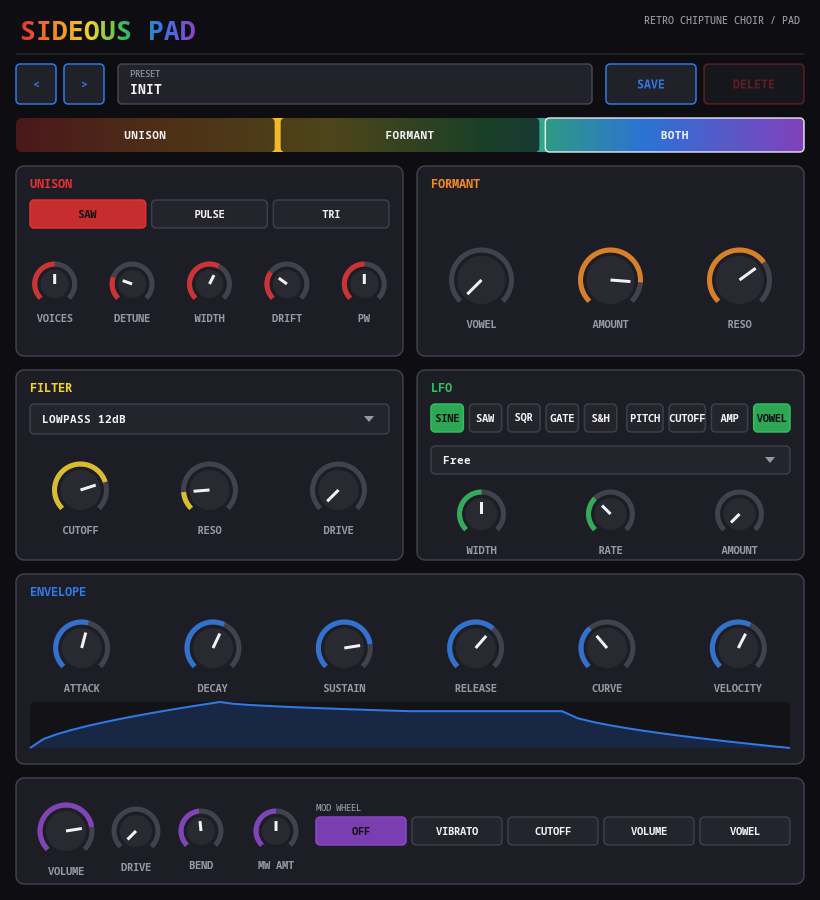
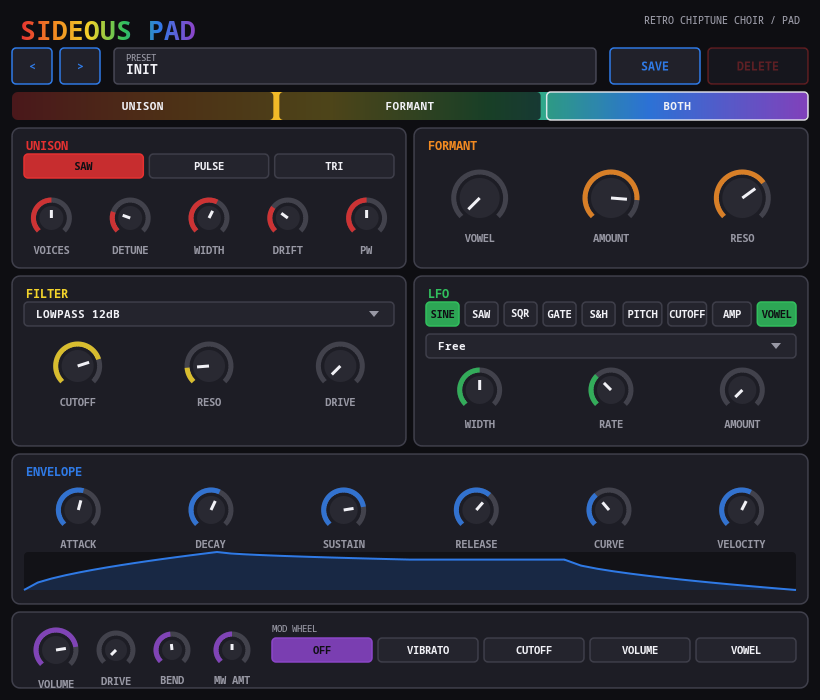
Compact UI and fix preset save bug
- Tightened the existing panel grid (knob radii, gaps, row heights) to
  reduce the window height (820x900 -> 820x700) without reshuffling the
  layout; removed a redundant header divider line.
- Fixed a preset-save bug: clicking SAVE cleared the in-progress rename
  before presetSave() could read it, so the typed name was silently
  discarded in favor of the previous preset's name.

diff --git a/plugins/SideousPad/ui/UIPainter.hpp b/plugins/SideousPad/ui/UIPainter.hpp
@@ -183,19 +183,19 @@ inline Layout buildLayout(float width, float height)
     L.width = width;
     L.height = height;
 
-    const float margin = 16.0f;
-    const float gap = 14.0f;
+    const float margin = 12.0f;
+    const float gap = 8.0f;
     const float colW = (width - margin * 2.0f - gap) / 2.0f;
     const float colBx = margin + colW + gap;
     const float fullW = width - margin * 2.0f;
 
     // preset bar: full width, everything else starts below it
-    const float presetBarY = 64.0f, presetBarH = 40.0f;
+    const float presetBarY = 48.0f, presetBarH = 36.0f;
 
-    const float modeY = presetBarY + presetBarH + gap, modeH = 34.0f;
-    const float row1Y = modeY + modeH + gap, row1H = 190.0f;
-    const float row2Y = row1Y + row1H + gap, row2H = 190.0f;
-    const float row3Y = row2Y + row2H + gap, row3H = 190.0f;
+    const float modeY = presetBarY + presetBarH + gap, modeH = 28.0f;
+    const float row1Y = modeY + modeH + gap, row1H = 140.0f;
+    const float row2Y = row1Y + row1H + gap, row2H = 170.0f;
+    const float row3Y = row2Y + row2H + gap, row3H = 150.0f;
     const float barY  = row3Y + row3H + gap, barH = height - barY - margin;
 
     // --- preset bar --- (left-to-right: prev/next, name field filling the
@@ -246,11 +246,11 @@ inline Layout buildLayout(float width, float height)
         Selector wave;
         wave.param = kParamUnisonWaveform;
         wave.accent = p.accent;
-        wave.x = p.x + 14.0f; wave.y = p.y + 34.0f; wave.w = p.w - 28.0f; wave.h = 28.0f;
+        wave.x = p.x + 12.0f; wave.y = p.y + 26.0f; wave.w = p.w - 24.0f; wave.h = 24.0f;
         wave.options = { { 0.0f, "SAW" }, { 1.0f, "PULSE" }, { 2.0f, "TRI" } };
         L.selectors.push_back(wave);
 
-        addKnobRow(L.knobs, p.x, p.w, wave.y + wave.h + 56.0f, 20.0f, p.accent,
+        addKnobRow(L.knobs, p.x, p.w, wave.y + wave.h + 40.0f, 18.0f, p.accent,
                    {
                        { kParamUnisonVoices,      "VOICES" },
                        { kParamUnisonDetune,      "DETUNE" },
@@ -263,7 +263,7 @@ inline Layout buildLayout(float width, float height)
     // --- Formant (Vowel) ---
     {
         const PanelBox& p = L.panels[1];
-        addKnobRow(L.knobs, p.x, p.w, p.y + 34.0f + 80.0f, 30.0f, p.accent,
+        addKnobRow(L.knobs, p.x, p.w, p.y + 26.0f + 44.0f, 26.0f, p.accent,
                    {
                        { kParamVowel,             "VOWEL" },
                        { kParamFormantAmount,     "AMOUNT" },
@@ -277,7 +277,7 @@ inline Layout buildLayout(float width, float height)
         Dropdown mode;
         mode.param = kParamFilterMode;
         mode.accent = p.accent;
-        mode.x = p.x + 14.0f; mode.y = p.y + 34.0f; mode.w = p.w - 28.0f; mode.h = 30.0f;
+        mode.x = p.x + 12.0f; mode.y = p.y + 26.0f; mode.w = p.w - 24.0f; mode.h = 24.0f;
         mode.options = {
             { 0.0f, "LOWPASS 12dB" },
             { 1.0f, "LOWPASS 24dB" },
@@ -288,7 +288,7 @@ inline Layout buildLayout(float width, float height)
         };
         L.dropdowns.push_back(mode);
 
-        addKnobRow(L.knobs, p.x, p.w, p.y + 34.0f + 30.0f + 56.0f, 26.0f, p.accent,
+        addKnobRow(L.knobs, p.x, p.w, p.y + 26.0f + 24.0f + 40.0f, 22.0f, p.accent,
                    {
                        { kParamFilterCutoff,    "CUTOFF" },
                        { kParamFilterResonance, "RESO" },
@@ -303,25 +303,25 @@ inline Layout buildLayout(float width, float height)
         Selector wave;
         wave.param = kParamLfoWaveform;
         wave.accent = p.accent;
-        wave.x = p.x + 14.0f; wave.y = p.y + 34.0f; wave.w = p.w * 0.48f; wave.h = 28.0f;
+        wave.x = p.x + 12.0f; wave.y = p.y + 26.0f; wave.w = p.w * 0.48f; wave.h = 24.0f;
         wave.options = { { 0.0f, "SINE" }, { 1.0f, "SAW" }, { 2.0f, "SQR" }, { 3.0f, "GATE" }, { 4.0f, "S&H" } };
         L.selectors.push_back(wave);
 
         Selector dest;
         dest.param = kParamLfoDestination;
         dest.accent = p.accent;
-        dest.x = wave.x + wave.w + 10.0f; dest.y = wave.y; dest.w = (p.x + p.w - 14.0f) - dest.x; dest.h = 28.0f;
+        dest.x = wave.x + wave.w + 8.0f; dest.y = wave.y; dest.w = (p.x + p.w - 12.0f) - dest.x; dest.h = 24.0f;
         dest.options = { { 0.0f, "PITCH" }, { 1.0f, "CUTOFF" }, { 2.0f, "AMP" }, { 3.0f, "VOWEL" } };
         L.selectors.push_back(dest);
 
         Dropdown sync;
         sync.param = kParamLfoSync;
         sync.accent = p.accent;
-        sync.x = p.x + 14.0f; sync.y = wave.y + wave.h + 14.0f; sync.w = p.w - 28.0f; sync.h = 28.0f;
+        sync.x = p.x + 12.0f; sync.y = wave.y + wave.h + 8.0f; sync.w = p.w - 24.0f; sync.h = 24.0f;
         sync.options = syncOptions();
         L.dropdowns.push_back(sync);
 
-        addKnobRow(L.knobs, p.x, p.w, sync.y + sync.h + 40.0f, 22.0f, p.accent,
+        addKnobRow(L.knobs, p.x, p.w, sync.y + sync.h + 32.0f, 20.0f, p.accent,
                    {
                        { kParamLfoWidth,  "WIDTH" },
                        { kParamLfoRateHz, "RATE" },
@@ -332,8 +332,8 @@ inline Layout buildLayout(float width, float height)
     // --- Envelope (full width) ---
     {
         const PanelBox& p = L.panels[4];
-        const float rowY = p.y + 34.0f + 40.0f;
-        addKnobRow(L.knobs, p.x, p.w, rowY, 26.0f, p.accent,
+        const float rowY = p.y + 26.0f + 30.0f;
+        addKnobRow(L.knobs, p.x, p.w, rowY, 20.0f, p.accent,
                    {
                        { kParamAmpAttack,          "ATTACK" },
                        { kParamAmpDecay,            "DECAY" },
@@ -345,7 +345,7 @@ inline Layout buildLayout(float width, float height)
 
         L.envelopeGraphs.push_back({
             kParamAmpAttack, kParamAmpDecay, kParamAmpSustain, kParamAmpRelease, kParamAmpCurve,
-            p.x + 14.0f, rowY + 26.0f + 28.0f, p.w - 28.0f, 46.0f, p.accent });
+            p.x + 12.0f, rowY + 20.0f + 22.0f, p.w - 24.0f, 38.0f, p.accent });
     }
 
     // --- bottom bar: master + performance controls ---
@@ -353,18 +353,18 @@ inline Layout buildLayout(float width, float height)
         const PanelBox& p = L.panels[5];
         const float cy = p.y + p.h * 0.5f;
 
-        L.knobs.push_back({ kParamMasterVolume, p.x + 50.0f,  cy, 26.0f, "VOLUME", p.accent });
-        L.knobs.push_back({ kParamMasterDrive,  p.x + 120.0f, cy, 22.0f, "DRIVE",  p.accent });
+        L.knobs.push_back({ kParamMasterVolume, p.x + 44.0f,  cy, 20.0f, "VOLUME", p.accent });
+        L.knobs.push_back({ kParamMasterDrive,  p.x + 104.0f, cy, 17.0f, "DRIVE",  p.accent });
 
-        L.knobs.push_back({ kParamPitchBendRange, p.x + 185.0f, cy, 20.0f, "BEND", p.accent });
+        L.knobs.push_back({ kParamPitchBendRange, p.x + 160.0f, cy, 16.0f, "BEND", p.accent });
 
-        L.knobs.push_back({ kParamModWheelAmount, p.x + 260.0f, cy, 20.0f, "MW AMT", p.accent });
+        L.knobs.push_back({ kParamModWheelAmount, p.x + 220.0f, cy, 16.0f, "MW AMT", p.accent });
 
         Selector modWheel;
         modWheel.param = kParamModWheelDestination;
         modWheel.accent = p.accent;
         modWheel.caption = "MOD WHEEL";
-        modWheel.x = p.x + 300.0f; modWheel.y = cy - 14.0f; modWheel.w = (p.x + p.w - 14.0f) - modWheel.x; modWheel.h = 28.0f;
+        modWheel.x = p.x + 260.0f; modWheel.y = cy - 12.0f; modWheel.w = (p.x + p.w - 12.0f) - modWheel.x; modWheel.h = 24.0f;
         modWheel.options = { { 0.0f, "OFF" }, { 1.0f, "VIBRATO" }, { 2.0f, "CUTOFF" }, { 3.0f, "VOLUME" }, { 4.0f, "VOWEL" } };
         L.selectors.push_back(modWheel);
     }
@@ -875,12 +875,6 @@ inline void paint(cairo_t* cr, const Layout& L, const PaintState& state)
         cairo_text_extents(cr, subtitle, &ext);
         drawText(cr, subtitle, L.width - 20.0 - ext.width, 24.0);
     }
-
-    setColor(cr, kPanelEdge, 0.5);
-    cairo_set_line_width(cr, 1.0);
-    cairo_move_to(cr, 16.0, 54.0);
-    cairo_line_to(cr, L.width - 16.0, 54.0);
-    cairo_stroke(cr);
 
     paintPresetBar(cr, L.presetBar, state);
 

diff --git a/plugins/SideousPad/SideousPadUI.cpp b/plugins/SideousPad/SideousPadUI.cpp
@@ -135,14 +135,18 @@ protected:
             const int presetBtn = hitTestPresetButton(mx, my);
             if (presetBtn >= 0)
             {
-                fEditingName = false; // a button click always cancels any in-progress rename
+                // SAVE must see fEditingName/fEditBuffer as-is - it commits the
+                // in-progress rename itself (and clears fEditingName when done).
+                // Clearing it here first, like the other buttons do to cancel a
+                // pending rename, made SAVE silently discard the typed name and
+                // fall back to whatever fCurrentName already was.
                 switch (presetBtn)
                 {
-                case 0: presetStep(-1); break;
-                case 1: presetStep(1);  break;
+                case 0: fEditingName = false; presetStep(-1); break;
+                case 1: fEditingName = false; presetStep(1);  break;
                 case 2: presetSave();   break;
-                case 3: presetDelete(); break;
-                default: break;
+                case 3: fEditingName = false; presetDelete(); break;
+                default: fEditingName = false; break;
                 }
                 repaint();
                 return true;

diff --git a/plugins/SideousPad/DistrhoPluginInfo.h b/plugins/SideousPad/DistrhoPluginInfo.h
@@ -21,7 +21,7 @@
 
 #define DISTRHO_UI_USE_CAIRO             1
 #define DISTRHO_UI_DEFAULT_WIDTH         820
-#define DISTRHO_UI_DEFAULT_HEIGHT        900
+#define DISTRHO_UI_DEFAULT_HEIGHT        700
 // must match the height ui/UIPainter.hpp's buildLayout() actually lays out to
 // (verified via the offline PNG renderer) - keep these two in sync by hand.
 
